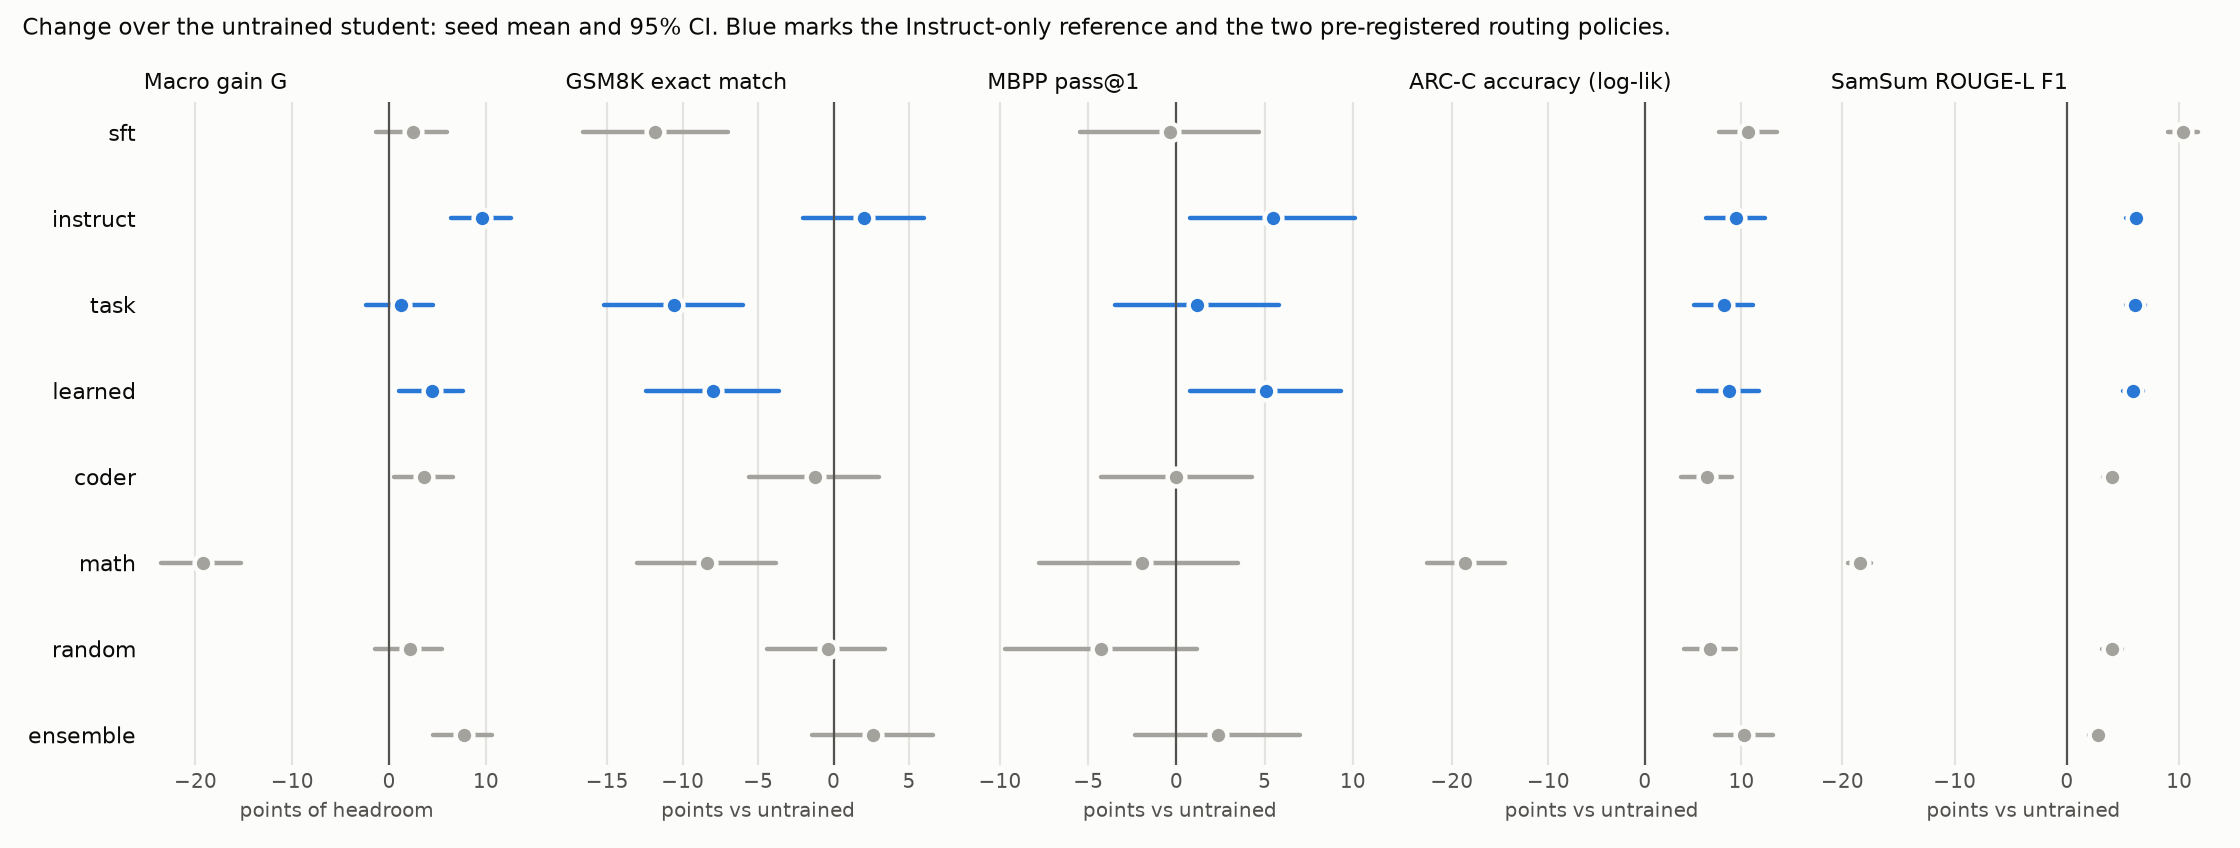
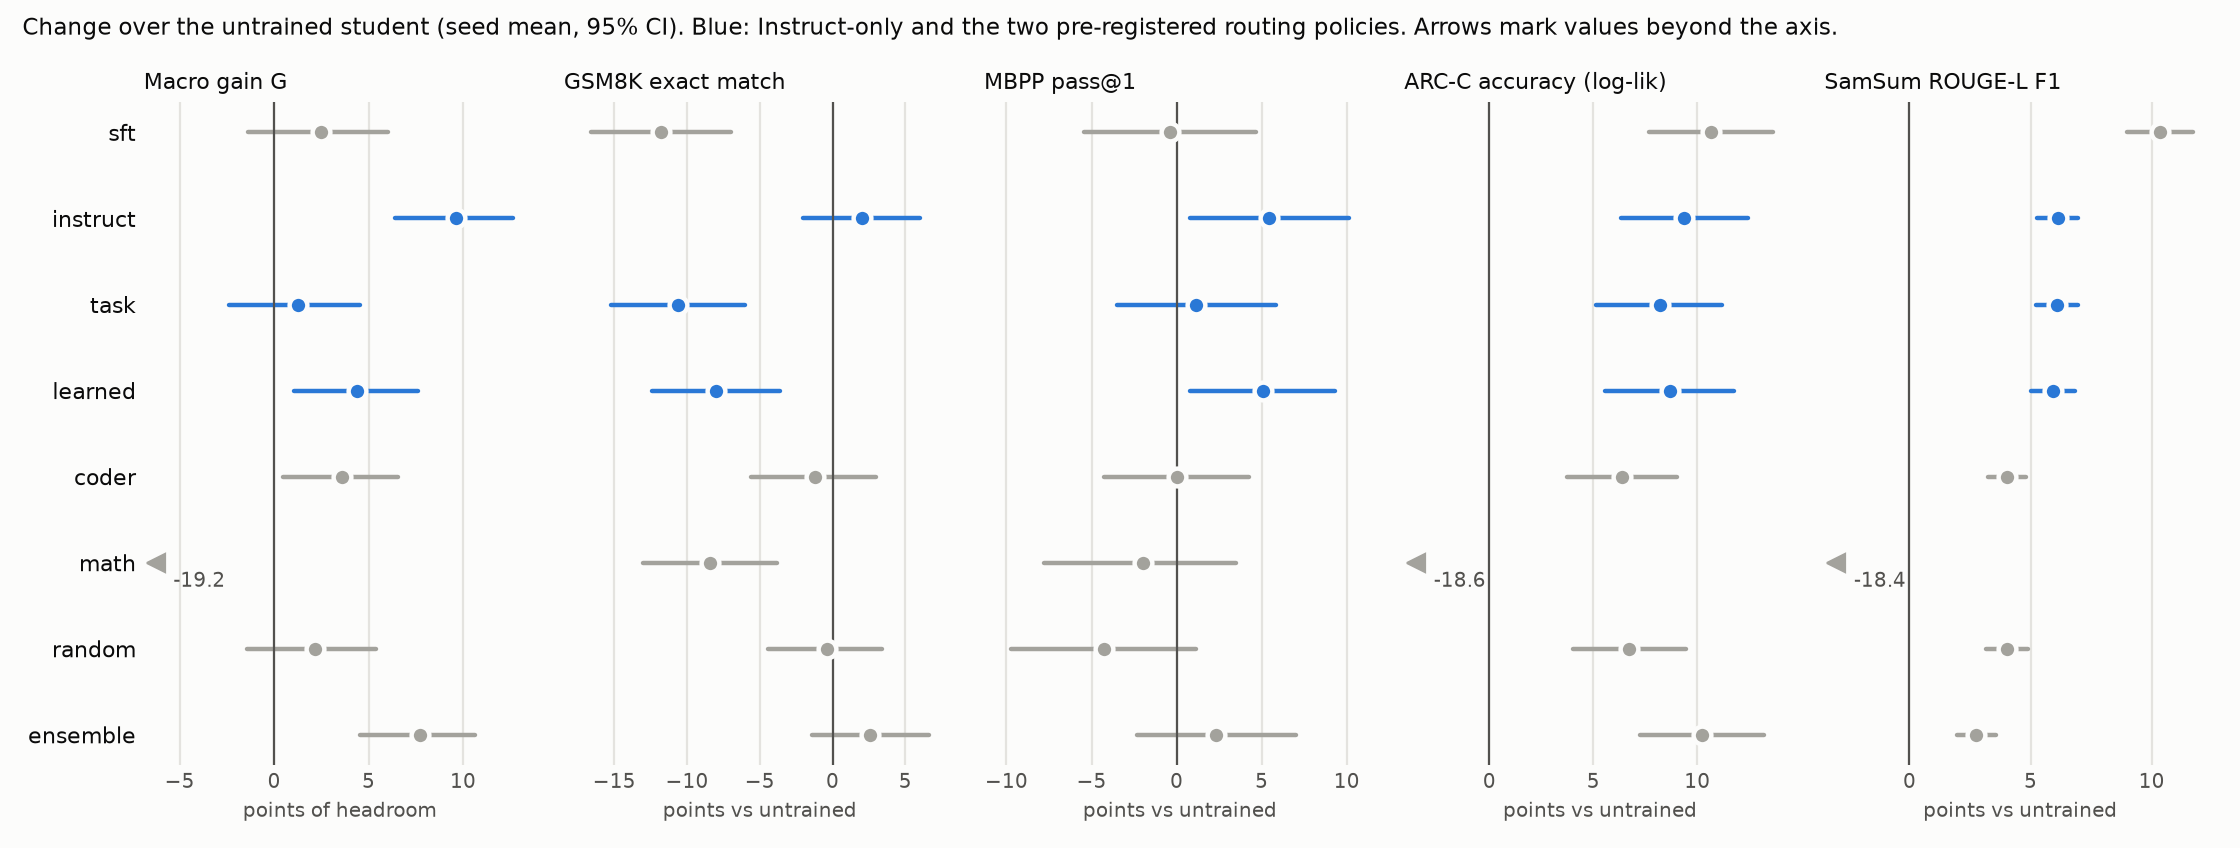
fix: keep one extreme condition from flattening the results figure

diff --git a/src/mtkd/report.py b/src/mtkd/report.py
@@ -247,6 +247,38 @@ def _style(ax, title: str, xlabel: str) -> None:
     ax.set_xlabel(xlabel, fontsize=9, color=MUTED)
 
 
+OUTLIER_PTS = 12.0
+
+
+def _panel_limits(intervals: list[dict]) -> tuple[float, float]:
+    """x-range from rows whose mean is within OUTLIER_PTS of the median row, so one extreme
+    condition does not flatten every other row; outliers are drawn at the edge."""
+    means = sorted(100 * d["mean"] for d in intervals)
+    median = means[len(means) // 2]
+    core = [d for d in intervals if abs(100 * d["mean"] - median) <= OUTLIER_PTS]
+    lo = min(0.0, min(100 * d["lo"] for d in core))
+    hi = max(0.0, max(100 * d["hi"] for d in core))
+    span = hi - lo
+    below = any(100 * d["mean"] < median - OUTLIER_PTS for d in intervals)
+    above = any(100 * d["mean"] > median + OUTLIER_PTS for d in intervals)
+    return lo - (0.3 if below else 0.08) * span, hi + (0.3 if above else 0.08) * span
+
+
+def _draw_row(ax, y: int, d: dict, color: str, limits: tuple[float, float]) -> None:
+    lo, hi = limits
+    mean = 100 * d["mean"]
+    if lo <= mean <= hi:
+        ax.plot([max(lo, 100 * d["lo"]), min(hi, 100 * d["hi"])], [y, y], color=color, lw=2,
+                solid_capstyle="round")
+        ax.plot(mean, y, "o", color=color, ms=8, mec=SURFACE, mew=2, zorder=3)
+        return
+    inset = 0.03 * (hi - lo)
+    edge, marker, align = (lo + inset, "<", "left") if mean < lo else (hi - inset, ">", "right")
+    ax.plot(edge, y, marker, color=color, ms=8, zorder=3)
+    ax.annotate(f"{mean:+.1f}", (edge, y), xytext=(8 if align == "left" else -8, -4),
+                textcoords="offset points", ha=align, va="top", fontsize=9, color=MUTED)
+
+
 def plot_results(res: Results, path: Path) -> None:
     import matplotlib
     matplotlib.use("Agg")
@@ -257,17 +289,18 @@ def plot_results(res: Results, path: Path) -> None:
     fig, axes = plt.subplots(1, len(panels), figsize=(14, 0.45 * len(names) + 1.7), sharey=True,
                              facecolor=SURFACE)
     for ax, (title, category) in zip(axes, panels):
-        for y, name in enumerate(names):
-            d = res.gain(name) if category is None else paired_diff_ci(res.scores[name][category], res.base[category])
-            color = ACCENT if name in (REFERENCE, *PRIMARY) else DEEMPH
-            ax.plot([100 * d["lo"], 100 * d["hi"]], [y, y], color=color, lw=2, solid_capstyle="round")
-            ax.plot(100 * d["mean"], y, "o", color=color, ms=8, mec=SURFACE, mew=2, zorder=3)
+        intervals = [res.gain(n) if category is None
+                     else paired_diff_ci(res.scores[n][category], res.base[category]) for n in names]
+        limits = _panel_limits(intervals)
+        for y, (name, d) in enumerate(zip(names, intervals)):
+            _draw_row(ax, y, d, ACCENT if name in (REFERENCE, *PRIMARY) else DEEMPH, limits)
+        ax.set_xlim(*limits)
         _style(ax, title, "points of headroom" if category is None else "points vs untrained")
     axes[0].set_yticks(range(len(names)), names, fontsize=10, color=INK)
     axes[0].invert_yaxis()
-    fig.suptitle("Change over the untrained student: seed mean and 95% CI. Blue marks the Instruct-only "
-                 "reference and the two pre-registered routing policies.", fontsize=10.5, color=INK,
-                 x=0.01, ha="left")
+    fig.suptitle("Change over the untrained student (seed mean, 95% CI). Blue: Instruct-only and the "
+                 "two pre-registered routing policies. Arrows mark values beyond the axis.",
+                 fontsize=10.5, color=INK, x=0.01, ha="left")
     fig.tight_layout()
     path.parent.mkdir(parents=True, exist_ok=True)
     fig.savefig(path, dpi=160, facecolor=SURFACE)
